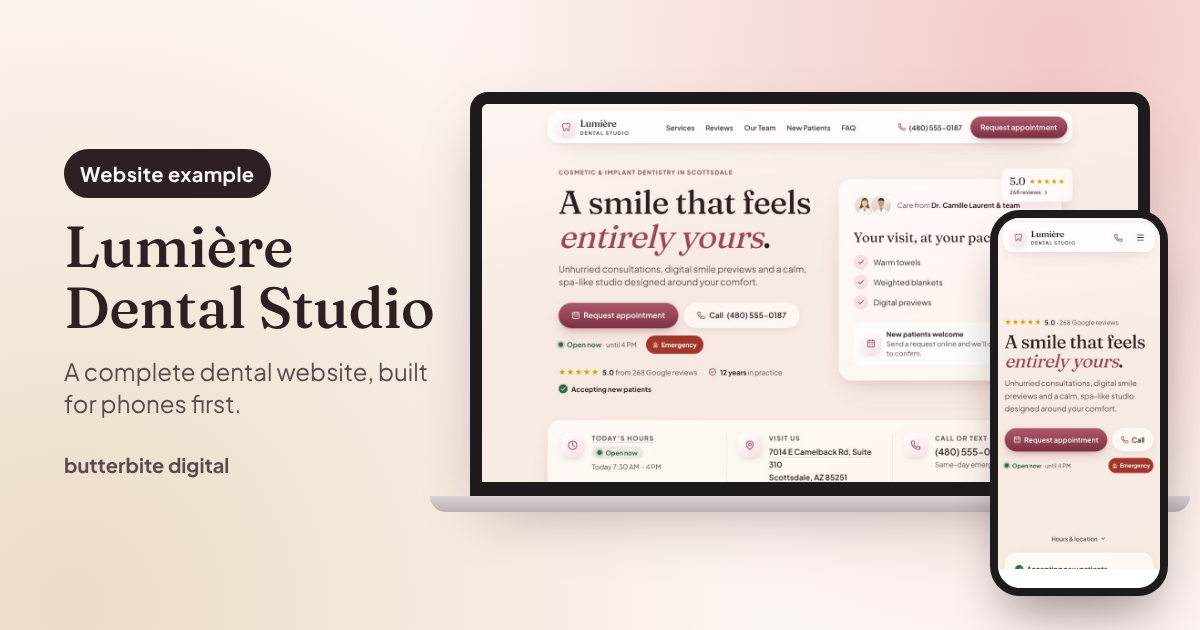
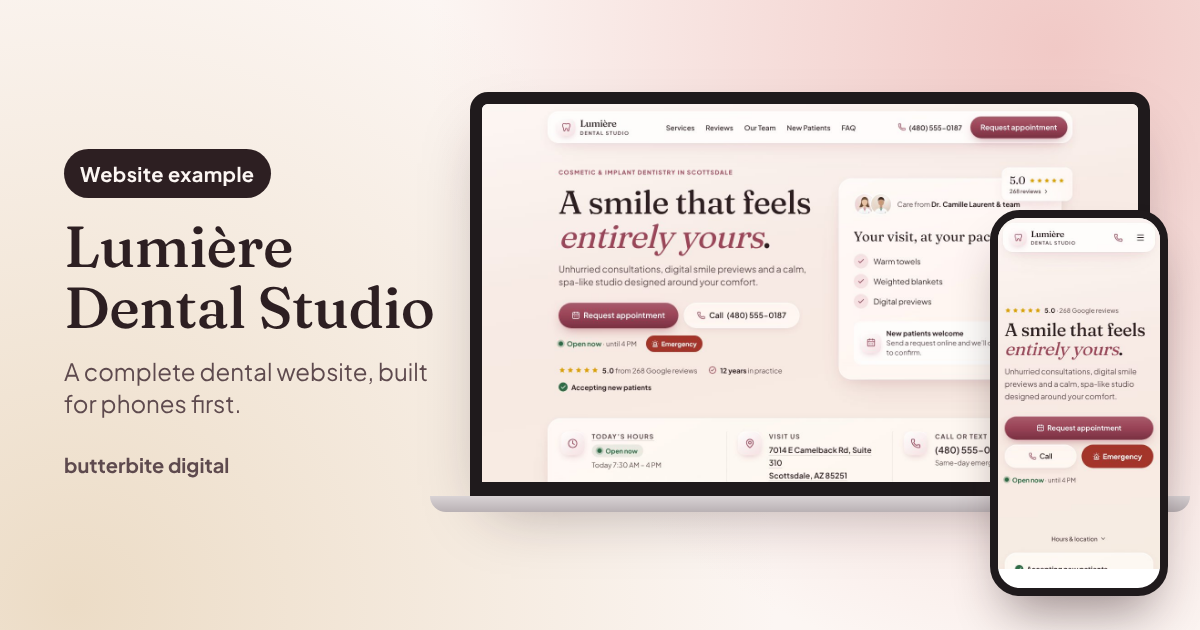
Phones: Request appointment on its own row, with Call and Emergency side by side below it, same size
Claude-Session: https://claude.ai/code/session_01Dz74CLANB8ZvbaNPtyytFn

diff --git a/components/sections/Hero.tsx b/components/sections/Hero.tsx
@@ -46,27 +46,27 @@ export function Hero({ office }: { office: OfficeConfig }) {
             {copy.heroSubhead}
           </p>
 
-          <div id="hero-actions" className="mt-6 flex gap-3 sm:mt-8">
-            <BookButton size="lg" className="max-sm:min-w-0 max-sm:flex-1 max-sm:px-4">
-              {/* Very narrow phones (iPhone SE): the short label keeps the button on one line. */}
-              <span className="max-[379px]:hidden">Request appointment</span>
-              <span className="min-[380px]:hidden">Request visit</span>
+          {/* Phones: Request on its own full-width row, then Call and Emergency side by side, same size.
+              Bigger screens: Request and Call in one row, Emergency next to the status below. */}
+          <div id="hero-actions" className="mt-6 grid grid-cols-2 gap-3 sm:mt-8 sm:flex">
+            <BookButton size="lg" className="col-span-2 max-sm:px-4">
+              Request appointment
             </BookButton>
-            <a href={telHref(contact.phone)} className="btn btn-glass btn-lg max-sm:px-5">
+            <a href={telHref(contact.phone)} className="btn btn-glass btn-lg max-sm:min-w-0 max-sm:px-4">
               <Phone size={18} aria-hidden="true" className="text-accent" />
               Call<span className="max-sm:sr-only"> {contact.phone}</span>
             </a>
+            <EmergencyButton label="Emergency" size="hero" className="min-w-0 sm:hidden" />
           </div>
 
           {/* Live open/closed status (the top reason people open a dentist's site) and the emergency pop-up. */}
-          {/* One row on phones: status on the left, a small red Emergency button on the right (wraps below on very narrow screens). */}
-          <div className="mt-4 flex flex-wrap items-center justify-between gap-x-1.5 gap-y-2 text-[0.875rem] sm:justify-start sm:gap-x-5 sm:text-[0.95rem]">
+          <div className="mt-4 flex flex-wrap items-center gap-x-5 gap-y-2 text-[0.95rem]">
             <HeroStatus
               timezone={office.timezone}
               offices={office.locations}
             />
-            {/* Always on the first screen, on every device. */}
-            <EmergencyButton label="Emergency" size="xs" className="sm:min-h-10 sm:px-3.5 sm:text-sm" />
+            {/* Bigger screens (phones have it next to Call above). Always on the first screen. */}
+            <EmergencyButton label="Emergency" size="sm" className="max-sm:hidden" />
           </div>
 
           {/* Trust strip: each item jumps to the section that backs it up. */}

diff --git a/components/ui/EmergencyButton.tsx b/components/ui/EmergencyButton.tsx
@@ -12,7 +12,7 @@ export function EmergencyButton({
   onClick,
 }: {
   label?: string;
-  size?: "xs" | "sm" | "md" | "lg";
+  size?: "sm" | "md" | "lg" | "hero";
   className?: string;
   onClick?: () => void;
 }) {
@@ -22,14 +22,15 @@ export function EmergencyButton({
       onClick={onClick}
       className={cx(
         "inline-flex shrink-0 items-center justify-center gap-1.5 whitespace-nowrap rounded-full bg-danger font-bold text-white shadow-sm transition-[filter] hover:brightness-110",
-        size === "xs" && "min-h-9 gap-1 px-2 text-[0.8125rem]",
         size === "sm" && "min-h-9 px-3 text-sm",
         size === "md" && "min-h-10 px-4 text-[0.95rem]",
         size === "lg" && "min-h-12 px-5 text-lg",
+        // Same height and type as the hero's other big buttons (.btn-lg).
+        size === "hero" && "min-h-14 px-5 text-[1.0625rem]",
         className,
       )}
     >
-      <Siren size={size === "lg" ? 19 : size === "xs" ? 14 : 16} aria-hidden="true" className="shrink-0" />
+      <Siren size={size === "lg" || size === "hero" ? 18 : 16} aria-hidden="true" className="shrink-0" />
       {label}
     </a>
   );
